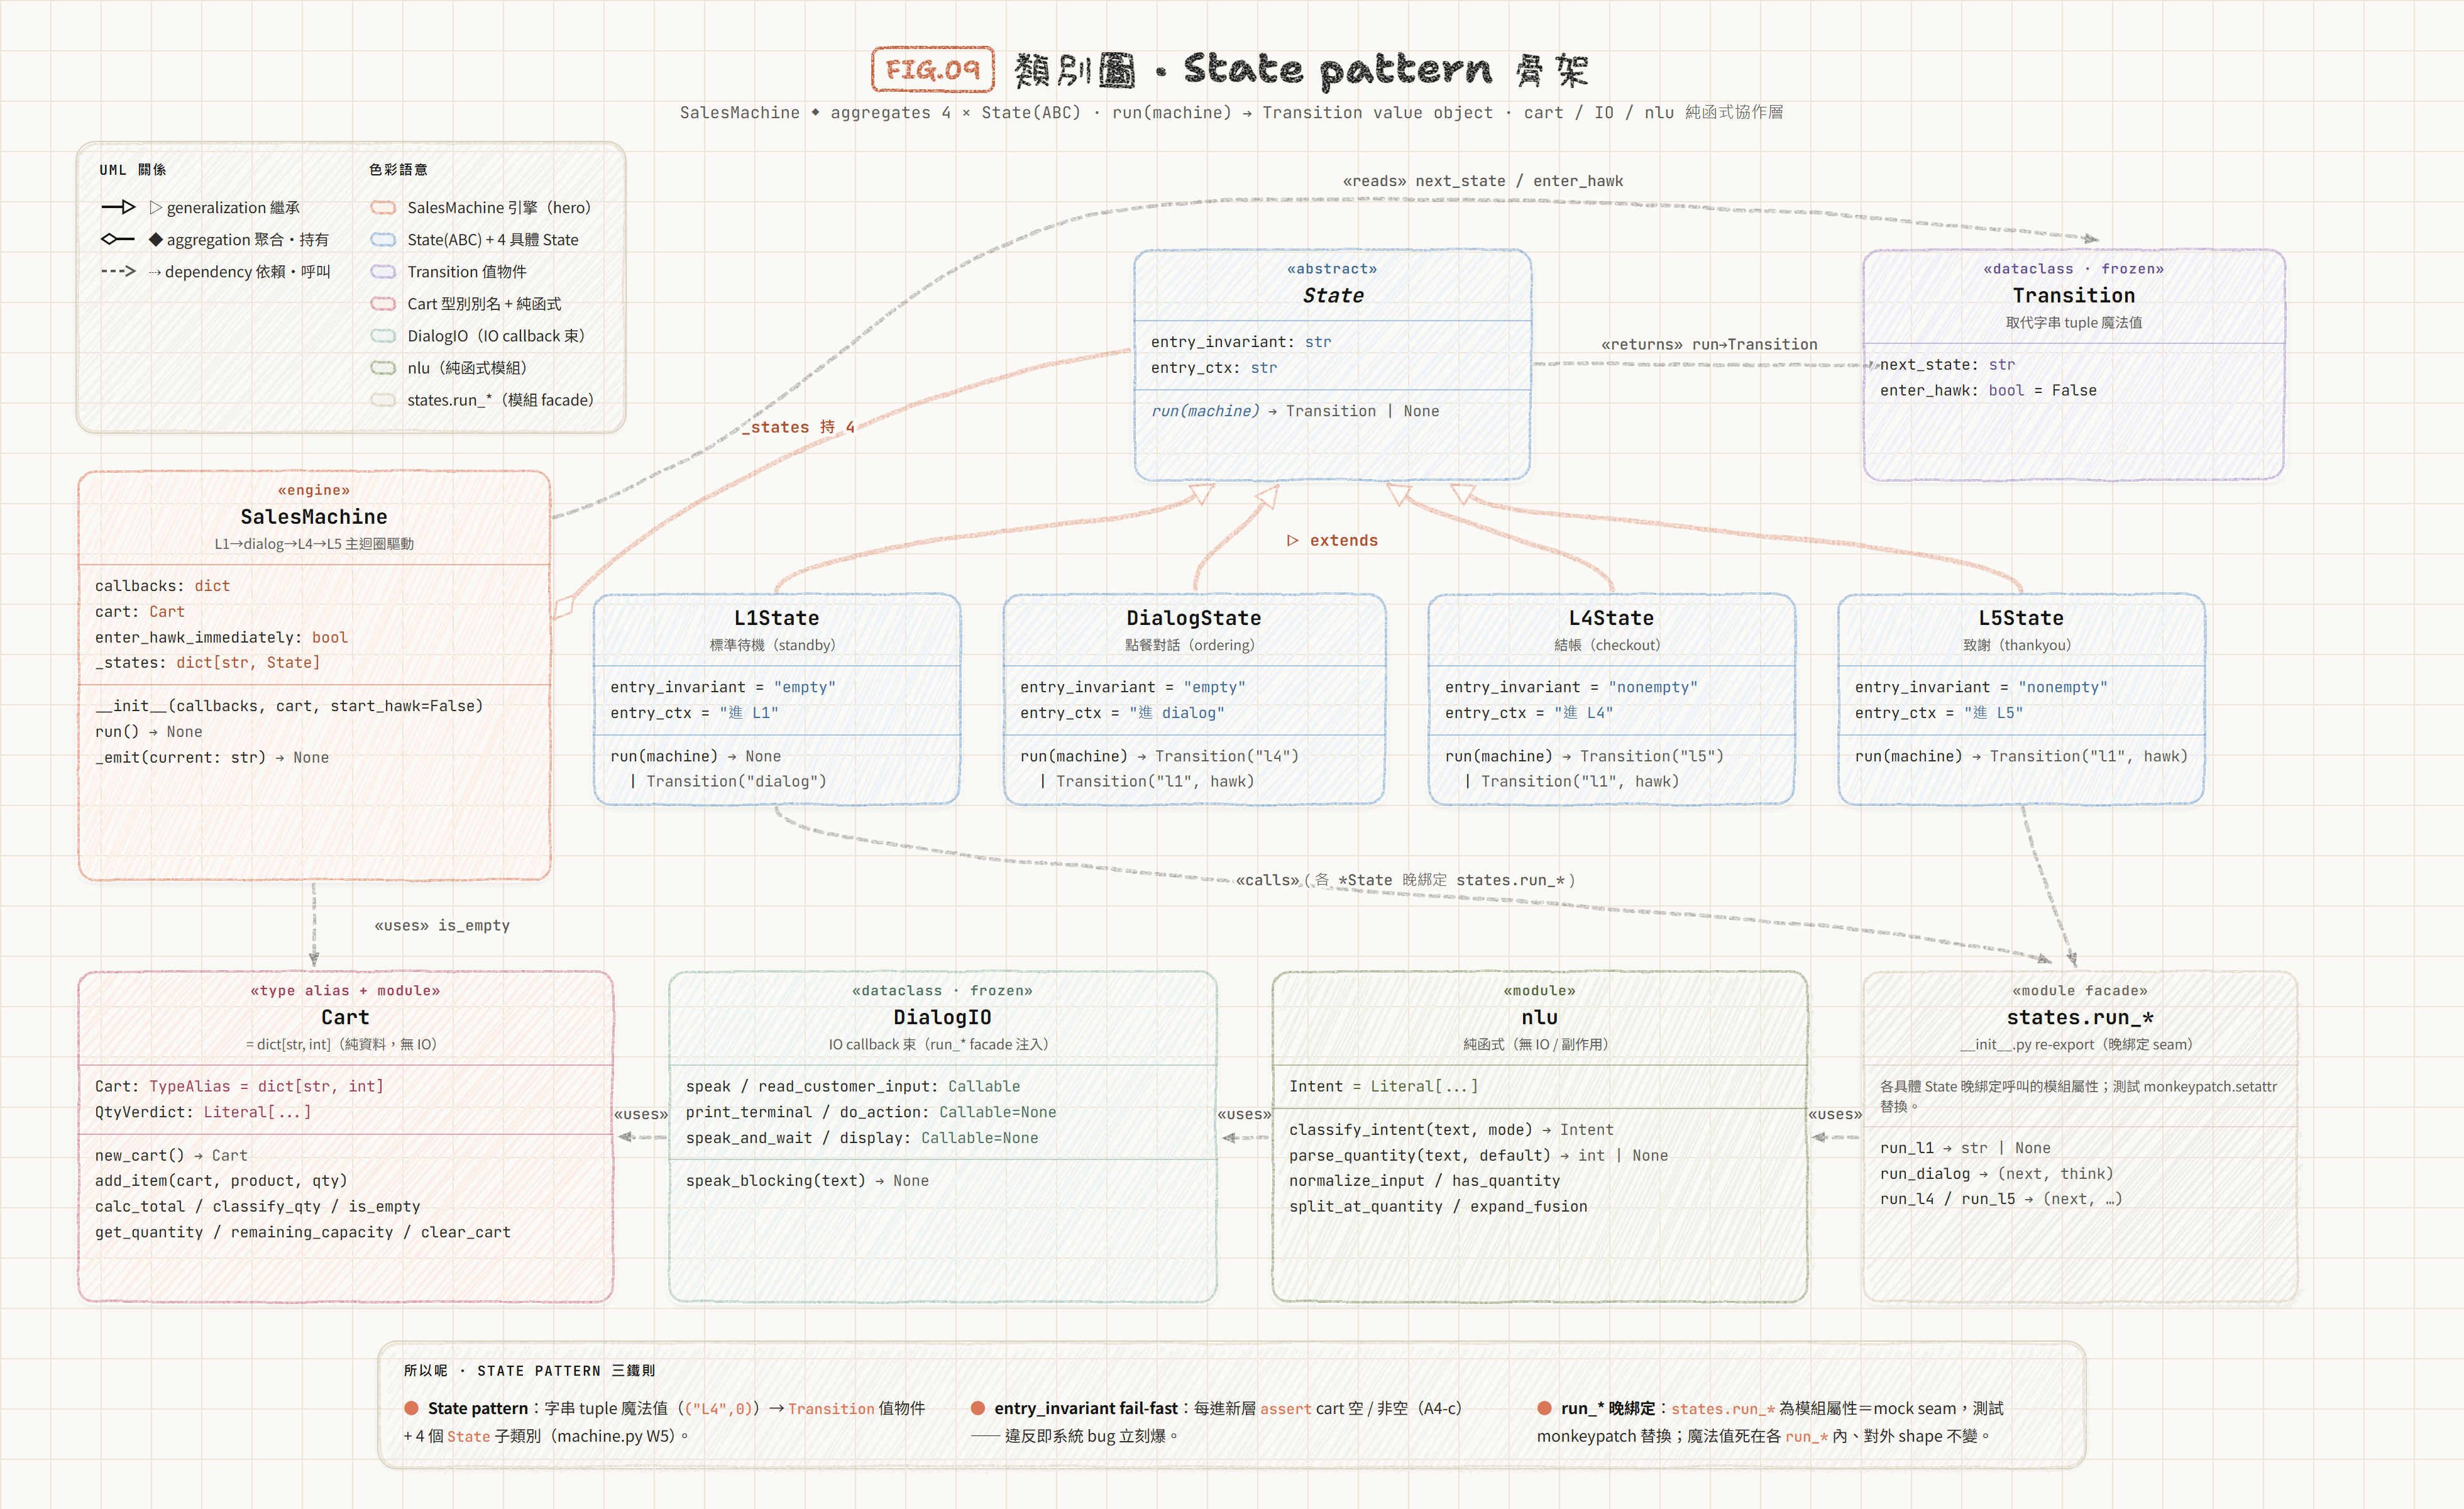
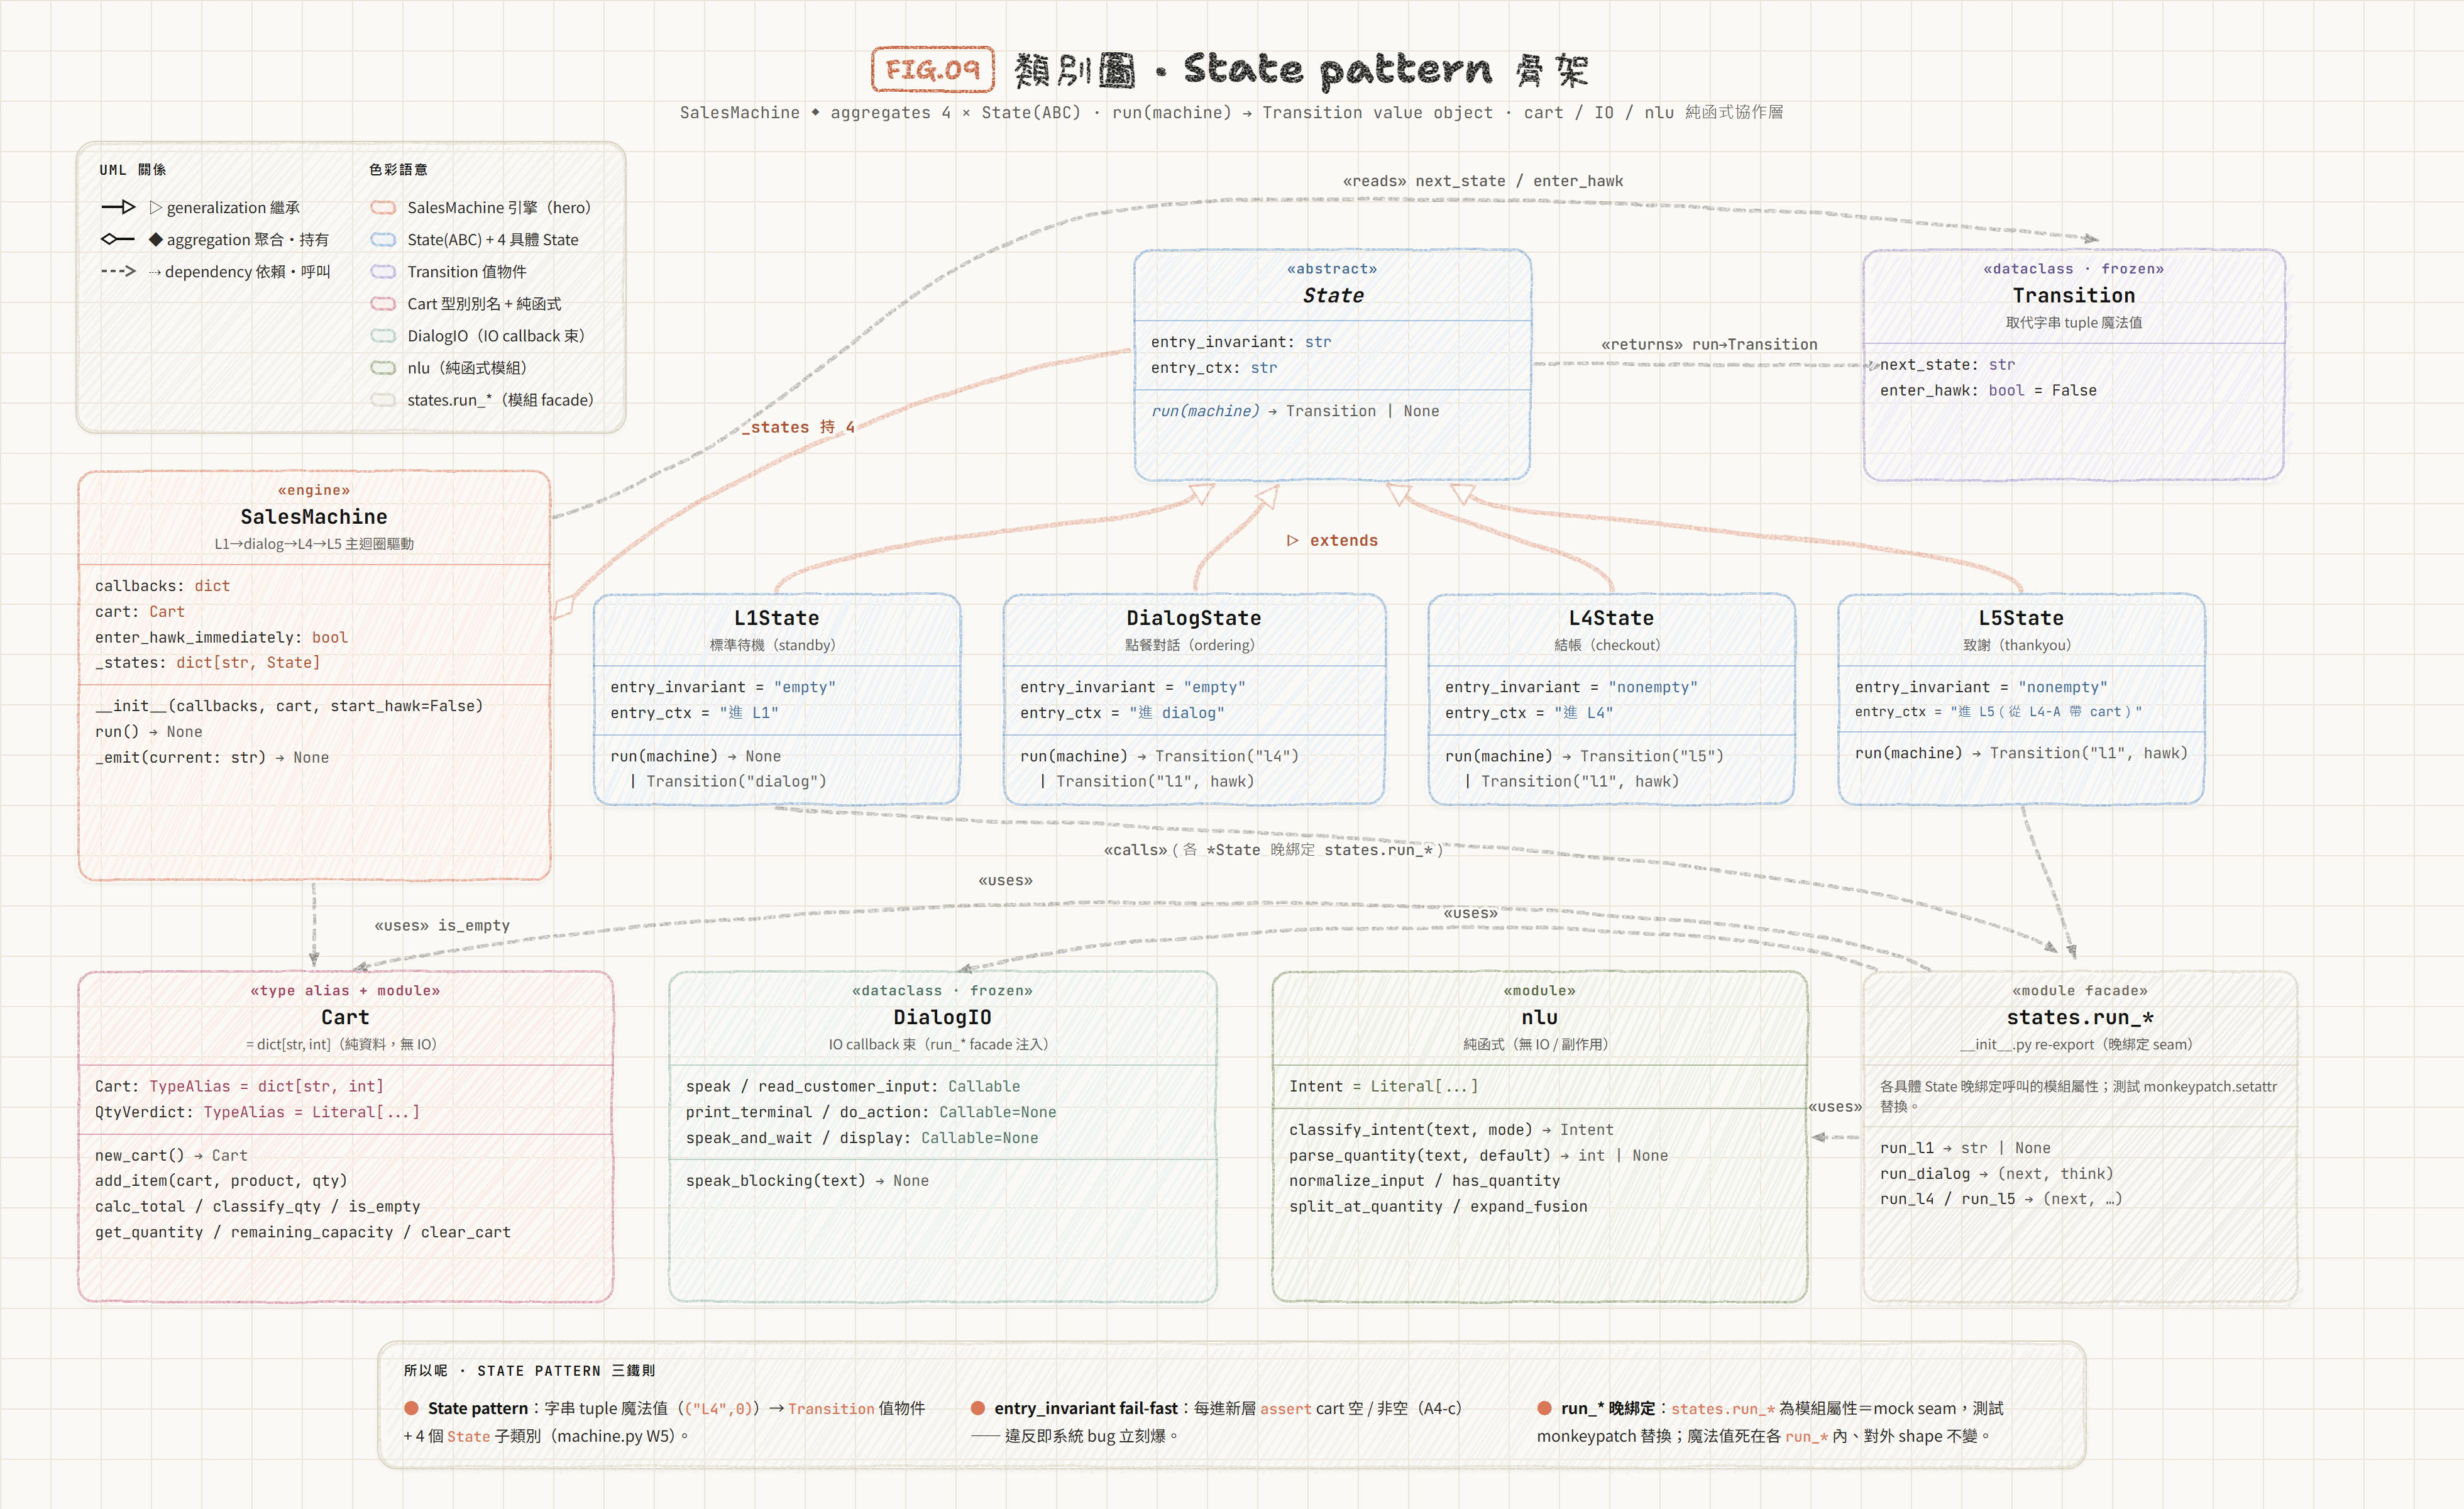
docs(diagrams): ⑨ 正確性修正 + UML 關係連線重排（使用者逐項驗收定版）
正確性稽核（對照 machine.py/cart.py/dialog_io.py/nlu.py 逐項核對）修三項：
- **修假依賴鏈**：原底帶 «uses» 串成 run_*→nlu→DialogIO→Cart，誤示 nlu 依賴
  DialogIO、DialogIO 依賴 Cart（碼裡不存在）→ 改為三條 «uses» 皆自 states.run_*
  發出（nlu/DialogIO/Cart 互不相依、皆被 states 使用）。
- L5State entry_ctx 補回完整值 "進 L5（從 L4-A 帶 cart）"（原截短成 "進 L5"，四 State 唯一不對稱）。
- Cart.QtyVerdict 補回 TypeAlias（碼為 QtyVerdict: TypeAlias = Literal[...]）。

版面：gutter 三 lane 分流（«calls» 抬貼 State 列頂、«uses»→Cart 中、→DialogIO 下），
兩個 «uses» 標籤貼回各自線（白 halo 打洞、不搞混）。重產 png+svg 覆蓋舊版。
code_map：⑧ 初版已刪、待 orchestrator 從零重做。

Claude-Session: https://claude.ai/code/session_01N1M1kM73h5MhPTyAm4Qgcx

diff --git a/resources/architecture/diagrams/09-class-diagram.html b/resources/architecture/diagrams/09-class-diagram.html
@@ -309,20 +309,20 @@
     <!-- 各 *State ..calls(晚綁定)..▷ states.run_*：4 具體框底 → states.run_* 框（gray，底帶最右）。
          避免 4 條太密：用 2 條代表線（最左 L1State / 最右 L5State）匯入 run_* 頂，文字承載「各 *State」。
          L1State 底 x618 y642 / L5State 底 x1608 y642 → run_* 框頂 x1655 y770。 -->
-    <path class="dep" marker-end="url(#ah)" d="M1608,642 C1620,690 1640,730 1650,768"/>
-    <path class="dep" marker-end="url(#ah)" d="M618,642 C618,700 1500,716 1630,766"/>
-    <text class="elabel" x="1120" y="704" text-anchor="middle">«calls»（各 *State 晚綁定 states.run_*）</text>
+    <path class="dep" marker-end="url(#ah)" d="M1608,642 C1614,668 1636,704 1650,762"/>
+    <path class="dep" marker-end="url(#ah)" d="M618,642 C772,658 1486,662 1636,758"/>
+    <text class="elabel" x="1015" y="680" text-anchor="middle">«calls»（各 *State 晚綁定 states.run_*）</text>
 
-    <!-- states.run_* ..uses..▷ nlu / DialogIO / Cart（協作層內部牽線，底帶橫向）。各只牽 1 條代表線。 -->
-    <!-- run_*(left 1480) → nlu(right 1440)：相鄰邊短線 -->
+    <!-- states.run_* ..uses..▷ nlu / DialogIO / Cart：三條**皆自 run_* 發出**（nlu/DialogIO/Cart 互不相依、
+         皆被 states.run_* 使用——不可串成 run_*→nlu→DialogIO→Cart 假鏈，那會誤示 nlu 依賴 DialogIO、
+         DialogIO 依賴 Cart，碼裡不存在）。run_*→nlu 相鄰短線；run_*→DialogIO / run_*→Cart 走 collaborator
+         列上方 gutter（y<770）左行、箭頭下接框頂，全程不穿框（nlu/DialogIO 頂 y770，弧線在其上）。 -->
     <path class="dep" marker-end="url(#ah)" d="M1478,904 L1442,904"/>
-    <text class="elabel" x="1460" y="890" text-anchor="middle">«uses»</text>
-    <!-- nlu(left 1010) → DialogIO(right 970)：相鄰邊短線 -->
-    <path class="dep" marker-end="url(#ah)" d="M1008,904 L972,904"/>
-    <text class="elabel" x="990" y="890" text-anchor="middle">«uses»</text>
-    <!-- DialogIO(left 530) → Cart(right 490)：相鄰邊短線（io 束 → 資料操作） -->
-    <path class="dep" marker-end="url(#ah)" d="M528,904 L492,904"/>
-    <text class="elabel" x="510" y="890" text-anchor="middle">«uses»</text>
+    <text class="elabel" x="1460" y="884" text-anchor="middle">«uses»</text>
+    <path class="dep" marker-end="url(#ah)" d="M1534,770 C1410,700 556,700 282,772"/>
+    <text class="elabel" x="800" y="704" text-anchor="middle">«uses»</text>
+    <path class="dep" marker-end="url(#ah)" d="M1492,770 C1386,726 940,726 762,772"/>
+    <text class="elabel" x="1170" y="730" text-anchor="middle">«uses»</text>
 
     <!-- SalesMachine ..uses..▷ Cart（is_empty / calc_total）：SalesMachine 底 x250 y702 → Cart 頂 x250 y770。
          短垂直線；標籤水平擺線右側、落 68px 窄隙內（長字會溢，故簡化為 «uses»）。 -->
@@ -467,7 +467,7 @@
     <div class="sep"></div>
     <div class="comp">
       <div class="row">entry_invariant = <span class="ty">"nonempty"</span></div>
-      <div class="row">entry_ctx = <span class="ty">"進 L5"</span></div>
+      <div class="row" style="font-size:10.5px;">entry_ctx = <span class="ty">"進 L5（從 L4-A 帶 cart）"</span></div>
     </div>
     <div class="sep"></div>
     <div class="comp">
@@ -488,7 +488,7 @@
     <div class="sep"></div>
     <div class="comp">
       <div class="row">Cart: <span class="ty">TypeAlias = dict[str, int]</span></div>
-      <div class="row">QtyVerdict: <span class="ty">Literal[...]</span></div>
+      <div class="row">QtyVerdict: <span class="ty">TypeAlias = Literal[...]</span></div>
     </div>
     <div class="sep"></div>
     <div class="comp">

diff --git a/resources/.claude/code_map.md b/resources/.claude/code_map.md
@@ -8,7 +8,7 @@
 - `reviews/` — 程式碼審查報告。
 - `research/` — 研究筆記（官方文檔轉述、最佳實踐、SDD 等）。
 - `evals/` — skill EDD 回歸：場景庫（`evals.json` 舊格式 + `scenarios_*.json` 新格式）+ `README.md`（harness 跑法）+ `baseline/`、`iteration-*/` 歷史；harness 本體在 `.claude/workflows/skill-edd-regression.js`。
-- `architecture/` — 系統架構文件（**以實作現況為準**，2026-06-21 重寫）：`README.md` 索引 + `00-system-overview`（鳥瞰 / process-thread 模型 / 啟動模式）+ `10-runtime-and-workers`（main.py 編排 + 四 worker 並行）+ `20-sales-state-machine`（L0–L5）+ `30-web-mirror-and-frontend`（web 交互狀態機）；`_archive/` 收已封存的舊願景 / 契約（FastAPI 願景式，過時不參考）。`diagrams/` 報告用系統架構圖（HTML/CSS + Chromium 截圖、交付 PNG + SVG）；**製作工作流＝ `.claude/skills/architecture-diagram` skill（已改宗 `report-design-system` 淺色蠟筆風）**。佈局：`specs/`（`00-diagram-backlog` 11 張清單 + 波次 + `01–09` 各圖內容 spec，風格無關、淺色重畫可重用）、`_legacy-dark/`（**深色 legacy 歸檔**：深色 `theme/` + 深色圖 ①–⑤ 三式；保留為淺色重畫的來源素材）、各圖淺色交付 `NN-*.{png,svg}` 置主層、**共用 render 依賴 `rough.js` + `jason8.ttf`（同層平放，未來淺色 html 直接同層引用）**。狀態：**淺色 ①–⑤ 已交付**（①②③ png+svg、html 源在 report-design-system 基準；④⑤ 2026-06-23 換膚、html/png/svg 在主層、源在 `_legacy-dark/`）、⑥⑦ 已交付（html/png/svg 在主層；STT/TTS 管線）、⑨ 已交付（類別圖 State pattern；html/png/svg 在主層）、⑧ 重做中（模組依賴；初版不滿意、orchestrator 自己重畫，html 仍在主層待覆寫）、⑩⑪ 待畫。
+- `architecture/` — 系統架構文件（**以實作現況為準**，2026-06-21 重寫）：`README.md` 索引 + `00-system-overview`（鳥瞰 / process-thread 模型 / 啟動模式）+ `10-runtime-and-workers`（main.py 編排 + 四 worker 並行）+ `20-sales-state-machine`（L0–L5）+ `30-web-mirror-and-frontend`（web 交互狀態機）；`_archive/` 收已封存的舊願景 / 契約（FastAPI 願景式，過時不參考）。`diagrams/` 報告用系統架構圖（HTML/CSS + Chromium 截圖、交付 PNG + SVG）；**製作工作流＝ `.claude/skills/architecture-diagram` skill（已改宗 `report-design-system` 淺色蠟筆風）**。佈局：`specs/`（`00-diagram-backlog` 11 張清單 + 波次 + `01–09` 各圖內容 spec，風格無關、淺色重畫可重用）、`_legacy-dark/`（**深色 legacy 歸檔**：深色 `theme/` + 深色圖 ①–⑤ 三式；保留為淺色重畫的來源素材）、各圖淺色交付 `NN-*.{png,svg}` 置主層、**共用 render 依賴 `rough.js` + `jason8.ttf`（同層平放，未來淺色 html 直接同層引用）**。狀態：**淺色 ①–⑤ 已交付**（①②③ png+svg、html 源在 report-design-system 基準；④⑤ 2026-06-23 換膚、html/png/svg 在主層、源在 `_legacy-dark/`）、⑥⑦ 已交付（html/png/svg 在主層；STT/TTS 管線）、⑨ 已交付（類別圖 State pattern；html/png/svg 在主層）、⑧ 待重畫（模組依賴；初版不滿意、html/spec 已刪除，orchestrator 自己從零重做）、⑩⑪ 待畫。
 - `report/` — 報告 PDF 產出（Anthropic 淺色編輯風,橫式 11×8.5,HTML/CSS → 本機 Chromium print-to-PDF;**有別於** `architecture/diagrams/` 的深色霓虹圖風）：`design-system.md` = **薄 pointer**（設計系統權威已搬入完全自足的 `report-design-system` skill —— spec / vendored 依賴 / 三張對照基準全內附,改設計改該 skill reference/）；報告產出物（待建）report.html、tokens.css、assets/fonts、assets/doodles、out/ 仍建在本層,做法見 report-design-system skill 的 reference/report-pdf.md §10。
 - `requirements/` — 需求文件（Raspberry Pi setup / 已安裝清單）。
 - `pineedtodo/` — Pi 端待辦操作說明書（寫入 append-only；完成即 `git mv` 進 `archive/` 子目錄，主目錄只留未完成 pending）。